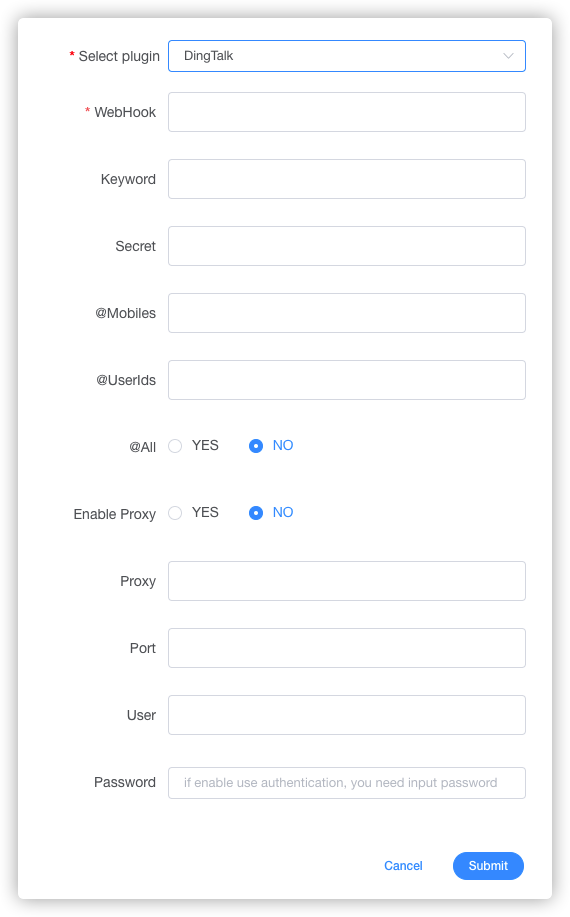
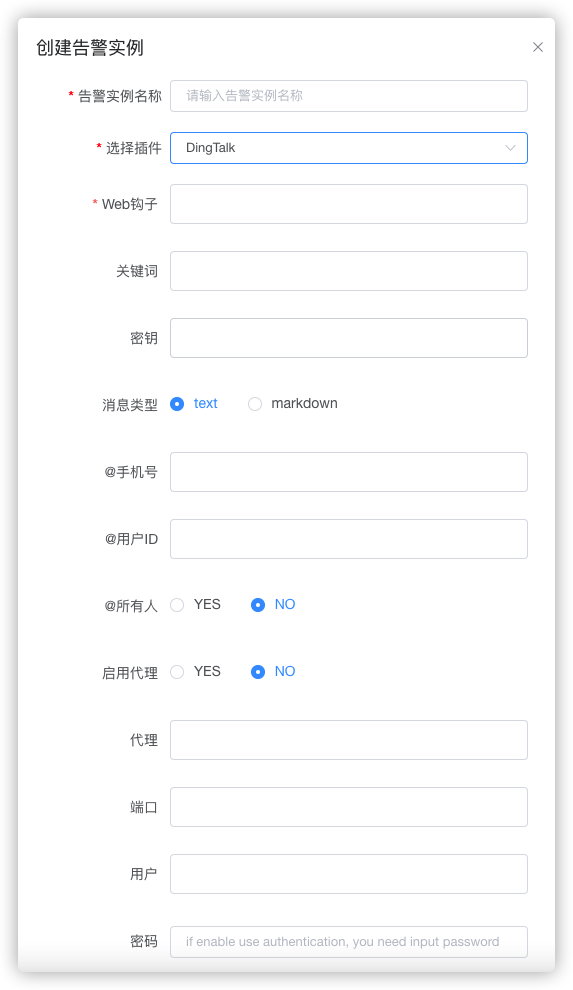
Automated deployment: 4c9c98cdf939702f18646f3e3039f3b2bb0d73d3

diff --git a/en-us/docs/dev/user_doc/guide/alert/dingtalk.html b/en-us/docs/dev/user_doc/guide/alert/dingtalk.html
@@ -30,6 +30,11 @@
 <p>Signature of security settings</p>
 </blockquote>
 </li>
+<li>MessageType
+<blockquote>
+<p>Support both text and markdown types</p>
+</blockquote>
+</li>
 </ul>
 <p>When a custom bot sends a message, you can specify the &quot;@person list&quot; by your mobile phone number. When the people in the &quot;@people list&quot; receive the message, there will be a @ message reminder. Do not disturb conversations still notify reminders, and &quot;someone @ you&quot; appears on the fold</p>
 <ul>
@@ -49,8 +54,7 @@
 </blockquote>
 </li>
 </ul>
-<p><a href="https://open.dingtalk.com/document/robots/custom-robot-access">DingTalk Custom Robot Access Development Documentation</a>,
-Use message type as text</p>
+<p><a href="https://open.dingtalk.com/document/robots/custom-robot-access">DingTalk Custom Robot Access Development Documentation</a></p>
 </div></section><footer class="footer-container"><div class="footer-body"><div><h3>About us</h3><h4>Do you need feedback? Please contact us through the following ways.</h4></div><div class="contact-container"><ul><li><a href="/en-us/community/development/subscribe.html"><img class="img-base" src="/img/emailgray.png"/><img class="img-change" src="/img/emailblue.png"/><p>Email List</p></a></li><li><a href="https://twitter.com/dolphinschedule"><img class="img-base" src="/img/twittergray.png"/><img class="img-change" src="/img/twitterblue.png"/><p>Twitter</p></a></li><li><a href="https://stackoverflow.com/questions/tagged/apache-dolphinscheduler"><img class="img-base" src="/img/stackoverflow.png"/><img class="img-change" src="/img/stackoverflow-selected.png"/><p>Stack Overflow</p></a></li><li><a href="https://join.slack.com/t/asf-dolphinscheduler/shared_invite/zt-omtdhuio-_JISsxYhiVsltmC5h38yfw"><img class="img-base" src="/img/slack.png"/><img class="img-change" src="/img/slack-selected.png"/><p>Slack</p></a></li></ul></div><div class="cols-container"><div class="docu-container"><h4>Documentation</h4><ul><li><a href="/en-us/development/architecture-design.html"><p>Overview</p></a></li><li><a href="/en-us/docs/latest/user_doc/guide/quick-start.html"><p>Quick start</p></a></li><li><a href="/en-us/development/development-environment-setup.html"><p>Developer guide</p></a></li></ul></div><div></div><div class="asf-container"><h4>ASF</h4><ul><li><a href="http://www.apache.org"><p>Foundation</p></a></li><li><a href="http://www.apache.org/licenses/"><p>License</p></a></li><li><a href="http://www.apache.org/events/current-event"><p>Events</p></a></li><li><a href="http://www.apache.org/foundation/sponsorship.html"><p>Sponsorship</p></a></li><li><a href="http://www.apache.org/foundation/thanks.html"><p>Thanks</p></a></li></ul></div></div><div class="copyright"><span>Copyright © 2019-2021 The Apache Software Foundation. Apache DolphinScheduler, DolphinScheduler, and its feather logo are trademarks of The Apache Software Foundation.</span></div></div></footer></div></div>
   <script src="//cdn.jsdelivr.net/npm/react@15.6.2/dist/react-with-addons.min.js"></script>
   <script src="//cdn.jsdelivr.net/npm/react-dom@15.6.2/dist/react-dom.min.js"></script>

diff --git a/zh-cn/docs/dev/user_doc/guide/alert/dingtalk.html b/zh-cn/docs/dev/user_doc/guide/alert/dingtalk.html
@@ -30,6 +30,11 @@
 <p>安全设置的加签</p>
 </blockquote>
 </li>
+<li>消息类型
+<blockquote>
+<p>支持 text 和 markdown 两种类型</p>
+</blockquote>
+</li>
 </ul>
 <p>自定义机器人发送消息时，可以通过手机号码指定“被@人列表”。在“被@人列表”里面的人员收到该消息时，会有@消息提醒。免打扰会话仍然通知提醒，首屏出现“有人@你”</p>
 <ul>
@@ -49,8 +54,7 @@
 </blockquote>
 </li>
 </ul>
-<p><a href="https://open.dingtalk.com/document/robots/custom-robot-access">钉钉自定义机器人接入开发文档</a>,
-采用消息类型为text</p>
+<p><a href="https://open.dingtalk.com/document/robots/custom-robot-access">钉钉自定义机器人接入开发文档</a></p>
 </div></section><footer class="footer-container"><div class="footer-body"><div><h3>联系我们</h3><h4>有问题需要反馈？请通过以下方式联系我们。</h4></div><div class="contact-container"><ul><li><a href="/zh-cn/community/development/subscribe.html"><img class="img-base" src="/img/emailgray.png"/><img class="img-change" src="/img/emailblue.png"/><p>邮件列表</p></a></li><li><a href="https://twitter.com/dolphinschedule"><img class="img-base" src="/img/twittergray.png"/><img class="img-change" src="/img/twitterblue.png"/><p>Twitter</p></a></li><li><a href="https://stackoverflow.com/questions/tagged/apache-dolphinscheduler"><img class="img-base" src="/img/stackoverflow.png"/><img class="img-change" src="/img/stackoverflow-selected.png"/><p>Stack Overflow</p></a></li><li><a href="https://join.slack.com/t/asf-dolphinscheduler/shared_invite/zt-omtdhuio-_JISsxYhiVsltmC5h38yfw"><img class="img-base" src="/img/slack.png"/><img class="img-change" src="/img/slack-selected.png"/><p>Slack</p></a></li></ul></div><div class="cols-container"><div class="docu-container"><h4>文档</h4><ul><li><a href="/zh-cn/development/architecture-design.html"><p>概览</p></a></li><li><a href="/zh-cn/docs/latest/user_doc/guide/quick-start.html"><p>快速开始</p></a></li><li><a href="/zh-cn/development/development-environment-setup.html"><p>开发者指南</p></a></li></ul></div><div></div><div class="asf-container"><h4>ASF</h4><ul><li><a href="http://www.apache.org"><p>基金会</p></a></li><li><a href="http://www.apache.org/licenses/"><p>证书</p></a></li><li><a href="http://www.apache.org/events/current-event"><p>事件</p></a></li><li><a href="http://www.apache.org/foundation/sponsorship.html"><p>赞助</p></a></li><li><a href="http://www.apache.org/foundation/thanks.html"><p>致谢</p></a></li></ul></div></div><div class="copyright"><span>Copyright © 2019-2021 The Apache Software Foundation. Apache DolphinScheduler, DolphinScheduler, and its feather logo are trademarks of The Apache Software Foundation.</span></div></div></footer></div></div>
   <script src="//cdn.jsdelivr.net/npm/react@15.6.2/dist/react-with-addons.min.js"></script>
   <script src="//cdn.jsdelivr.net/npm/react-dom@15.6.2/dist/react-dom.min.js"></script>
